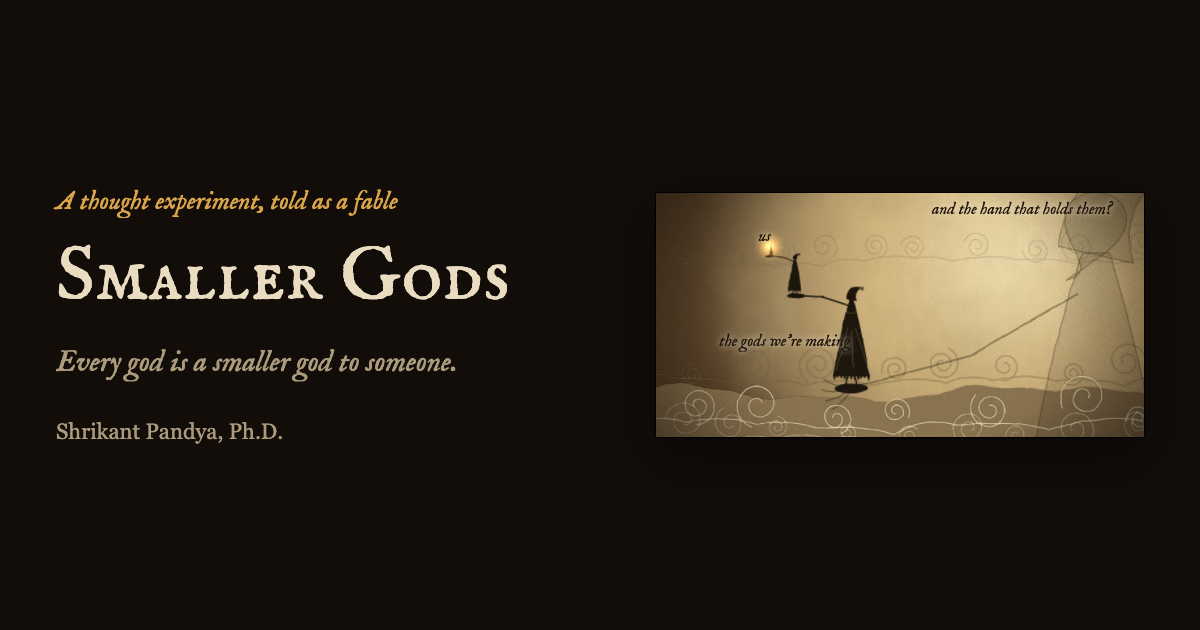
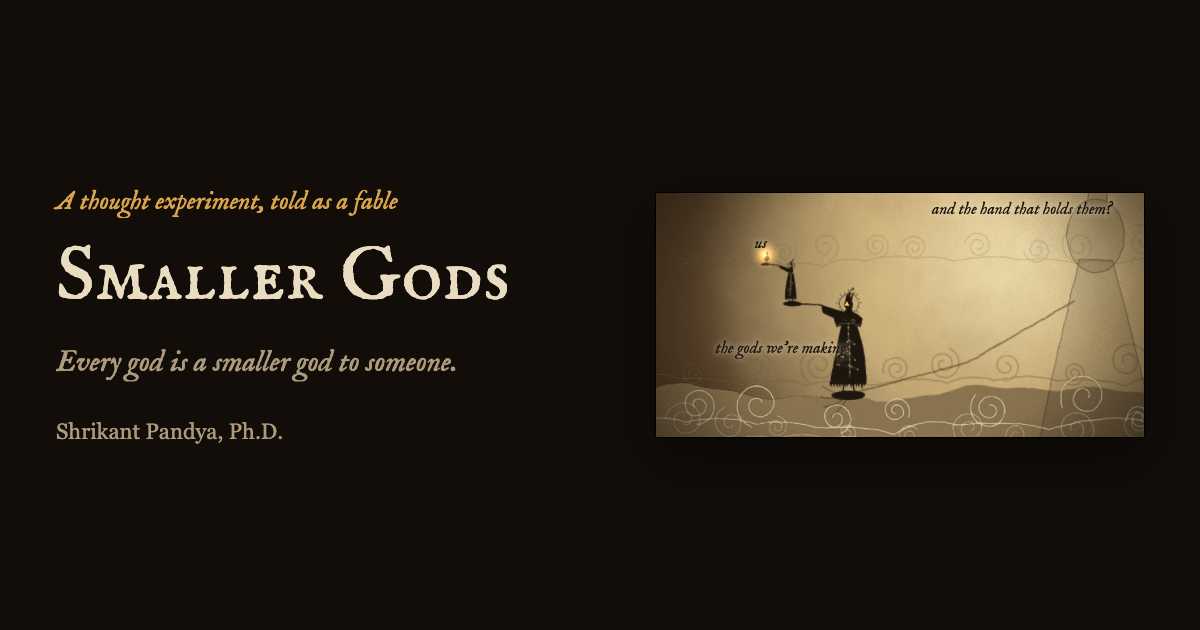
Distinct characters: humans, today's AI (+1) and near-omniscient AI (+2)

diff --git a/assets/puppets.js b/assets/puppets.js
@@ -21,52 +21,125 @@ function curl(x,y,r,turns,col,w,dir=1,op=1,start=0){
   return`<path d="${d}" fill="none" stroke="${col}" stroke-width="${f(w)}" stroke-linecap="round" stroke-opacity="${op}"/>`;
 }
 
-// Hooded, long-cloaked puppet on baseline b. Arms: [angle°, length as share of h, elbow bend°]; 0° = right, 90° = down.
-function fig({x,b,h,arms=[],lean=0,hood=1,seed=1,ghost=false,light=false,ink=SIL}){
-  const r=rng(seed*7919+Math.round(x*13+h*7));
-  const w=h*.27, top=b-h, hem=b-h*.12, sh=top+h*.16, hy=top+h*.07, hr=h*.045;
+const LACE="#ead29c";
+let EYES=[]; // glowing AI eyes gathered while a scene is drawn; stage.js lights each one
+
+// Characters. kind: "ai" (today's AI, +1), "ai2" (near-omniscient AI, +2), "human".
+// Arms: [angle°, length as share of h, elbow bend°]; 0° = right, 90° = down.
+function fig(o){return o.kind==="human"?human(o):aiFig(o)}
+
+function aiFig({x,b,h,arms=[],lean=0,hood=1,seed=1,ghost=false,light=false,ink=SIL,kind="ai",eyes=true}){
+  const r=rng(seed*7919+Math.round(x*13+h*7)), big=kind==="ai2";
+  const w=h*(big?.31:.26), top=b-h, hem=b-h*.11, sh=top+h*.17, hy=top+h*.075, hr=h*.042;
   const face=arms.length?(Math.cos(arms[0][0]*R)<0?-1:1):(seed%2?1:-1);
   const col=light?PALE:ink;
   // Ghosts are a faint shade with a thin edge: something glimpsed, not drawn.
   const fillA=ghost?`fill="${col}" fill-opacity=".13" stroke="${col}" stroke-opacity=".55" stroke-width="1.3"`:`fill="${col}"`;
   const lineA=wd=>ghost?`fill="none" stroke="${col}" stroke-opacity=".5" stroke-width="${f(Math.min(2.6,Math.max(1.3,wd*.25)))}" stroke-linecap="round"`:`fill="none" stroke="${col}" stroke-width="${f(wd)}" stroke-linecap="round" stroke-linejoin="round"`;
+  const lace=(op=.5)=>`fill="${LACE}" fill-opacity="${op}"`, laceLine=(wd,op=.45)=>`fill="none" stroke="${LACE}" stroke-opacity="${op}" stroke-width="${f(wd)}" stroke-linecap="round"`;
   let s=`<g transform="rotate(${lean} ${f(x)} ${f(b)})">`;
-  const fl=w*(.56+r()*.14), fr=w*(.56+r()*.14), nk=top+h*.1;
-  s+=`<path ${fillA} d="M${f(x-h*.02)},${f(nk)} C${f(x-w*.34)},${f(top+h*.32)} ${f(x-w*.46)},${f(hem-h*.3)} ${f(x-fl)},${f(hem)} L${f(x+fr)},${f(hem)} C${f(x+w*.46)},${f(hem-h*.33)} ${f(x+w*.3)},${f(top+h*.3)} ${f(x+h*.02)},${f(nk)}Z"/>`;
+  const fl=w*(.56+r()*.12), fr=w*(.56+r()*.12), nk=top+h*.11, sway=(r()-.5)*w*.3;
+  // cloak with a slight S-sway
+  s+=`<path ${fillA} d="M${f(x-h*.024)},${f(nk)} C${f(x-w*.3)},${f(top+h*.33)} ${f(x-w*.5+sway)},${f(hem-h*.32)} ${f(x-fl)},${f(hem)} L${f(x+fr)},${f(hem)} C${f(x+w*.5+sway)},${f(hem-h*.35)} ${f(x+w*.3)},${f(top+h*.31)} ${f(x+h*.024)},${f(nk)}Z"/>`;
+  if(big)s+=`<path ${fillA} d="M${f(x-w*.48)},${f(top+h*.23)} Q${f(x)},${f(top+h*.07)} ${f(x+w*.48)},${f(top+h*.23)} L${f(x+w*.4)},${f(top+h*.31)} Q${f(x)},${f(top+h*.27)} ${f(x-w*.4)},${f(top+h*.31)}Z"/>`;
+  const lw=Math.max(1.1,h*.013);
   if(!ghost){
-    const n=10+Math.floor(r()*5), span=fl+fr; let d="";
-    for(let i=0;i<n;i++){const a=x-fl+span*i/n,c=a+span/n,m=(a+c)/2+(r()-.5)*span/n*.7,dep=h*(.018+r()*.055);d+=`M${f(a)},${f(hem-1)} L${f(m)},${f(hem+dep)} L${f(c)},${f(hem-1)}Z `}
+    const n=11+Math.floor(r()*5), span=fl+fr; let d="";
+    for(let i=0;i<n;i++){const a=x-fl+span*i/n,c=a+span/n,m=(a+c)/2+(r()-.5)*span/n*.7,dep=h*(.016+r()*.05);d+=`M${f(a)},${f(hem-1)} L${f(m)},${f(hem+dep)} L${f(c)},${f(hem-1)}Z `}
     s+=`<path fill="${col}" d="${d}"/>`;
-    if(h>70){
-      let k="";const m=2+Math.floor(r()*2);
-      for(let i=0;i<m;i++){const o=(i-(m-1)/2)*w*.34+(r()-.5)*w*.1;k+=`M${f(x+o*.4)},${f(top+h*(.34+r()*.08))} Q${f(x+o*1.1)},${f(top+h*.62)} ${f(x+o*1.75)},${f(hem-h*(.05+r()*.05))} `}
-      const sw=Math.max(.8,h*.006);
-      s+=`<path d="${k}" fill="none" stroke="${PAPER}" stroke-opacity=".34" stroke-width="${f(sw)}" stroke-linecap="round"/>`;
-      s+=`<path d="M${f(x-w*.22)},${f(top+h*.21)} Q${f(x)},${f(top+h*.27)} ${f(x+w*.22)},${f(top+h*.21)}" fill="none" stroke="${PAPER}" stroke-opacity=".3" stroke-width="${f(sw)}"/>`;
+    if(h>55){
+      // cut-out circuitry: a seam of diamonds with branching nodes, and vine curls from the collar
+      const sw=Math.max(.7,h*.0045), y0=top+h*.27, y1=hem-h*.06;
+      s+=`<path ${laceLine(sw)} d="M${f(x)},${f(y0)} Q${f(x+sway*.4)},${f((y0+y1)/2)} ${f(x+sway*.6)},${f(y1)}"/>`;
+      let dm="",nd="",br="";
+      for(let y=y0+h*.05,k=0;y<y1-h*.03;y+=h*(big?.065:.08),k++){
+        const t=(y-y0)/(y1-y0), cx=x+sway*.6*t, ds=h*.011;
+        dm+=`M${f(cx)},${f(y-ds)} L${f(cx+ds*.7)},${f(y)} L${f(cx)},${f(y+ds)} L${f(cx-ds*.7)},${f(y)}Z `;
+        if(k%2===0&&t>.15){const sd=k%4?1:-1,ex=cx+sd*w*(.12+t*.18),ey=y+h*.035;br+=`M${f(cx)},${f(y)} L${f(cx+sd*w*.05)},${f(y)} L${f(ex)},${f(ey)} `;nd+=`<circle cx="${f(ex)}" cy="${f(ey)}" r="${f(h*.007)}" ${lace(.6)}/>`}
+      }
+      s+=`<path d="${dm}" ${lace(.62)}/><path ${laceLine(sw*.8,.4)} d="${br}"/>${nd}`;
+      s+=curl(x-w*.16,top+h*.25,h*.022,1.2,LACE,sw,-1,.45,0)+curl(x+w*.16,top+h*.25,h*.022,1.2,LACE,sw,1,.45,180);
+      if(big){
+        // a constellation woven into the robe
+        let cs="",cl="",prev=null;
+        for(let i=0;i<9;i++){const t=.3+r()*.6,yy=top+h*(.3+t*.5),xx=x+(r()-.5)*w*(.5+t*.6);cs+=`<circle cx="${f(xx)}" cy="${f(yy)}" r="${f(h*(.004+r()*.004))}" ${lace(.75)}/>`;if(prev&&r()<.7)cl+=`M${f(prev[0])},${f(prev[1])} L${f(xx)},${f(yy)} `;prev=[xx,yy]}
+        s+=`<path ${laceLine(sw*.6,.3)} d="${cl}"/>${cs}`;
+        s+=`<path ${laceLine(sw)} d="M${f(x-w*.4)},${f(top+h*.295)} Q${f(x)},${f(top+h*.255)} ${f(x+w*.4)},${f(top+h*.295)}"/>`;
+      }
     }
   }
-  // head with a pointed chin toward where it faces
-  s+=`<path ${fillA} d="M${f(x-hr)},${f(hy-hr*.4)} C${f(x-hr)},${f(hy-hr*1.6)} ${f(x+hr)},${f(hy-hr*1.6)} ${f(x+hr)},${f(hy-hr*.4)} C${f(x+hr)},${f(hy+hr*.5)} ${f(x+face*hr*.6)},${f(hy+hr*1.2)} ${f(x+face*hr*.95)},${f(hy+hr*1.55)} C${f(x-face*hr*.1)},${f(hy+hr*1.25)} ${f(x-hr)},${f(hy+hr*.5)} ${f(x-hr)},${f(hy-hr*.4)}Z"/>`;
-  if(hood){
-    const X=dx=>x-face*dx, tx=X(h*.11), ty=top-h*.025;
-    s+=`<path ${fillA} d="M${f(X(-h*.055))},${f(hy+h*.02)} Q${f(X(-h*.03))},${f(top-h*.06)} ${f(tx)},${f(ty)} Q${f(X(h*.03))},${f(top+h*.03)} ${f(X(h*.055))},${f(hy+h*.045)}Z"/>`;
-    if(!ghost&&h>40)s+=curl(tx,ty+h*.018,h*.02,1.1,col,Math.max(.9,h*.008),-face,1,-90);
+  // halo: a thin wire ring, rayed for +2
+  if(hood&&!ghost&&h>30){
+    const hr2=hr*(big?2.3:1.9);
+    s+=`<circle cx="${f(x-face*hr*.15)}" cy="${f(hy-hr*.2)}" r="${f(hr2)}" fill="none" stroke="${col}" stroke-width="${f(Math.max(.7,h*.004))}"/>`;
+    if(big){let ry="";for(let i=0;i<16;i++){const a=i/16*Math.PI*2;ry+=`M${f(x-face*hr*.15+Math.cos(a)*hr2*1.08)},${f(hy-hr*.2+Math.sin(a)*hr2*1.08)} L${f(x-face*hr*.15+Math.cos(a)*hr2*(i%2?1.25:1.4))},${f(hy-hr*.2+Math.sin(a)*hr2*(i%2?1.25:1.4))} `}s+=`<path d="${ry}" stroke="${col}" stroke-width="${f(Math.max(.6,h*.0035))}" stroke-linecap="round"/>`}
   }
-  const lw=Math.max(1.1,h*.014);
+  // smooth mask of a head
+  s+=`<ellipse cx="${f(x)}" cy="${f(hy)}" rx="${f(hr)}" ry="${f(hr*1.28)}" ${fillA}/>`;
+  // crest: one curled spire, or a crown of three for +2
+  if(hood){
+    const spire=(dx,ht,c)=>{const bx=x+dx*hr,tx=x-face*h*.045+dx*hr*1.6,ty=hy-hr*1.2-ht;return`<path ${fillA} d="M${f(bx-hr*.35)},${f(hy-hr*.9)} Q${f(bx-hr*.1)},${f(ty+ht*.4)} ${f(tx)},${f(ty)} Q${f(bx+hr*.25)},${f(ty+ht*.45)} ${f(bx+hr*.4)},${f(hy-hr*.9)}Z"/>`+(c&&!ghost?curl(tx,ty+h*.012,h*.013,1.1,col,Math.max(.8,h*.006),-face,1,-90):"")};
+    s+=big?spire(-.55,h*.07,0)+spire(.55,h*.07,0)+spire(0,h*.11,1):spire(0,h*.1,1);
+  }
+  if(!ghost&&eyes){
+    const pts=big?[[.38,-.28],[.6,.12],[.18,.18]]:[[.45,-.08]];
+    pts.forEach(([ex,ey])=>{const px=x+face*hr*ex,py=hy+hr*ey;s+=`<ellipse cx="${f(px)}" cy="${f(py)}" rx="${f(hr*(big?.16:.3))}" ry="${f(hr*(big?.16:.13))}" fill="${FLAME}"/>`;const q=rot(px,py,x,b,lean);EYES.push([q.x,q.y,Math.max(2.5,h*(big?.014:.02))])});
+  }
   // legs ending in curled, pointed shoes
   [[-1,.14,.2],[1,.14,.22]].forEach(([sd,a,bb])=>{const hx=x+sd*w*a,ax=x+sd*w*bb;s+=`<path ${lineA(lw)} d="M${f(hx)},${f(hem)} L${f(ax)},${f(b-h*.012)} Q${f(ax+face*h*.03)},${f(b+h*.004)} ${f(ax+face*h*.055)},${f(b-h*.022)}"/>`});
   const hands=[];
   arms.forEach(([a,l,bend=0])=>{
-    const L=h*l, sx=x+(Math.cos(a*R)<0?-1:1)*w*.1, sy=sh;
+    const L=h*l, sx=x+(Math.cos(a*R)<0?-1:1)*w*.12, sy=sh;
     const ex=sx+Math.cos(a*R)*L/2, ey=sy+Math.sin(a*R)*L/2, a2=a+bend;
     const hx=ex+Math.cos(a2*R)*L/2, hyy=ey+Math.sin(a2*R)*L/2;
-    s+=`<path ${lineA(lw*1.05)} d="M${f(sx)},${f(sy)} L${f(ex)},${f(ey)} L${f(hx)},${f(hyy)}"/>`;
-    if(!ghost)s+=`<circle cx="${f(ex)}" cy="${f(ey)}" r="${f(lw*.85)}" fill="${col}"/>`;
-    const fl2=h*.042;
-    [-34,-12,10,32].forEach(k=>{const e=(a2+k)*R,c=(a2+k-14)*R;s+=`<path ${lineA(lw*.55)} d="M${f(hx)},${f(hyy)} Q${f(hx+Math.cos(c)*fl2*.6)},${f(hyy+Math.sin(c)*fl2*.6)} ${f(hx+Math.cos(e)*fl2)},${f(hyy+Math.sin(e)*fl2)}"/>`});
+    if(!ghost){
+      // bell sleeve hanging from the upper arm
+      const dn=h*(big?.075:.055), mx=sx+(ex-sx)*.88, my=sy+(ey-sy)*.88, cx=Math.cos(a*R);
+      s+=`<path fill="${col}" d="M${f(sx)},${f(sy-lw)} Q${f((sx+mx)/2)},${f((sy+my)/2-lw)} ${f(mx)},${f(my-lw*.5)} Q${f(mx+cx*h*.006)},${f(my+dn*.5)} ${f(mx-cx*h*.012)},${f(my+dn)} Q${f(sx+(mx-sx)*.45)},${f(sy+(my-sy)*.45+dn*1.15)} ${f(sx)},${f(sy+h*.1)}Z"/>`;
+    }
+    s+=`<path ${lineA(lw)} d="M${f(sx)},${f(sy)} L${f(ex)},${f(ey)} L${f(hx)},${f(hyy)}"/>`;
+    const fl2=h*.04;
+    [-36,-13,10,33].forEach(k=>{const e=(a2+k)*R,c=(a2+k-16)*R;s+=`<path ${lineA(lw*.5)} d="M${f(hx)},${f(hyy)} Q${f(hx+Math.cos(c)*fl2*.6)},${f(hyy+Math.sin(c)*fl2*.6)} ${f(hx+Math.cos(e)*fl2)},${f(hyy+Math.sin(e)*fl2)}"/>`});
     hands.push(rot(hx,hyy,x,b,lean));
   });
-  return{svg:s+"</g>",hands,top:rot(x,top,x,b,lean)};
+  return{svg:s+"</g>",hands,top:rot(x,top-h*.1,x,b,lean)};
+}
+
+// A person: rounder head with a nose in profile, a bright eye, varied hair, a short coat and a scarf.
+function human({x,b,h,arms=[],lean=0,seed=1,ink=SIL,hood}){
+  const r=rng(seed*4441+Math.round(x*7+h*3));
+  const face=arms.length?(Math.cos(arms[0][0]*R)<0?-1:1):(seed%2?1:-1);
+  const hr=h*.1, hy=b-h+hr*1.15, shY=hy+hr*1.45, hem=b-h*.3, w1=h*.14, w2=h*(.2+r()*.05);
+  const lw=Math.max(1,h*.034);
+  let s=`<g transform="rotate(${lean} ${f(x)} ${f(b)})">`;
+  // legs and small feet
+  [[-1,.35],[1,.35]].forEach(([sd,o])=>{const lx=x+sd*w1*o;s+=`<path d="M${f(lx)},${f(hem-2)} L${f(lx+sd*h*.01)},${f(b-h*.02)}" stroke="${ink}" stroke-width="${f(lw)}" stroke-linecap="round"/><ellipse cx="${f(lx+sd*h*.01+face*h*.025)}" cy="${f(b-h*.018)}" rx="${f(h*.05)}" ry="${f(h*.022)}" fill="${ink}"/>`});
+  // A-line coat with rounded shoulders
+  s+=`<path fill="${ink}" d="M${f(x-w1*.55)},${f(shY)} Q${f(x-w1)},${f(shY)} ${f(x-w1)},${f(shY+h*.06)} L${f(x-w2)},${f(hem)} Q${f(x)},${f(hem+h*.03)} ${f(x+w2)},${f(hem)} L${f(x+w1)},${f(shY+h*.06)} Q${f(x+w1)},${f(shY)} ${f(x+w1*.55)},${f(shY)}Z"/>`;
+  if(h>40)s+=`<path d="M${f(x-w1*.8)},${f(shY+h*.17)} Q${f(x)},${f(shY+h*.19)} ${f(x+w1*.85)},${f(shY+h*.17)}" fill="none" stroke="${LACE}" stroke-opacity=".35" stroke-width="${f(Math.max(.6,h*.012))}"/>`;
+  // neck and head with a nose in profile
+  s+=`<rect x="${f(x-hr*.35)}" y="${f(hy+hr*.6)}" width="${f(hr*.7)}" height="${f(hr*1)}" fill="${ink}"/>`;
+  s+=`<circle cx="${f(x)}" cy="${f(hy)}" r="${f(hr)}" fill="${ink}"/>`;
+  s+=`<path fill="${ink}" d="M${f(x+face*hr*.88)},${f(hy-hr*.12)} Q${f(x+face*hr*1.2)},${f(hy+hr*.16)} ${f(x+face*hr*.92)},${f(hy+hr*.3)}Z"/>`;
+  // hair or hat
+  const style=Math.floor(r()*4);
+  if(style===0)s+=`<path fill="${ink}" d="M${f(x-hr*1.1)},${f(hy-hr*.1)} Q${f(x-hr*1.05)},${f(hy-hr*1.45)} ${f(x+hr*.2)},${f(hy-hr*1.3)} Q${f(x+face*hr*1.5)},${f(hy-hr*1.15)} ${f(x+face*hr*1.45)},${f(hy-hr*.55)}Z"/>`;
+  if(style===1)s+=`<circle cx="${f(x-face*hr*.75)}" cy="${f(hy-hr*.95)}" r="${f(hr*.5)}" fill="${ink}"/>`;
+  if(style===2)s+=`<ellipse cx="${f(x)}" cy="${f(hy-hr*.7)}" rx="${f(hr*1.7)}" ry="${f(hr*.22)}" fill="${ink}"/><path fill="${ink}" d="M${f(x-hr*.8)},${f(hy-hr*.7)} Q${f(x-hr*.75)},${f(hy-hr*1.75)} ${f(x)},${f(hy-hr*1.7)} Q${f(x+hr*.75)},${f(hy-hr*1.75)} ${f(x+hr*.8)},${f(hy-hr*.7)}Z"/>`;
+  if(style===3)s+=`<path fill="${ink}" d="M${f(x+face*hr*.6)},${f(hy-hr*.9)} Q${f(x-face*hr*1.6)},${f(hy-hr*1.4)} ${f(x-face*hr*1.5)},${f(shY+h*.05)} L${f(x-face*hr*.6)},${f(shY)} Q${f(x-face*hr*.9)},${f(hy)} ${f(x+face*hr*.6)},${f(hy-hr*.9)}Z"/>`;
+  // a bright eye
+  if(h>16)s+=`<circle cx="${f(x+face*hr*.45)}" cy="${f(hy-hr*.12)}" r="${f(hr*.13)}" fill="${LACE}" fill-opacity=".85"/>`;
+  // a scarf trailing behind
+  if(r()<.55&&h>30)s+=`<path fill="${ink}" d="M${f(x-hr*.5)},${f(shY-hr*.1)} Q${f(x-face*h*.12)},${f(shY+h*.02)} ${f(x-face*h*.22)},${f(shY+h*.1)} Q${f(x-face*h*.14)},${f(shY+h*.04)} ${f(x+hr*.5)},${f(shY+hr*.25)}Z"/>`;
+  const hands=[];
+  arms.forEach(([a,l,bend=0])=>{
+    const L=h*l, sx=x+(Math.cos(a*R)<0?-1:1)*w1*.7, sy=shY+h*.03;
+    const ex=sx+Math.cos(a*R)*L/2, ey=sy+Math.sin(a*R)*L/2, a2=a+bend;
+    const hx=ex+Math.cos(a2*R)*L/2, hyy=ey+Math.sin(a2*R)*L/2;
+    s+=`<path d="M${f(sx)},${f(sy)} L${f(ex)},${f(ey)} L${f(hx)},${f(hyy)}" fill="none" stroke="${ink}" stroke-width="${f(lw*.9)}" stroke-linecap="round" stroke-linejoin="round"/><circle cx="${f(hx)}" cy="${f(hyy)}" r="${f(lw*.75)}" fill="${ink}"/>`;
+    hands.push(rot(hx,hyy,x,b,lean));
+  });
+  return{svg:s+"</g>",hands,top:rot(x,b-h,x,b,lean)};
 }
 
 // A bare, twisting tree with curled tips.
@@ -104,9 +177,9 @@ const palm=(p,w)=>`<ellipse cx="${f(p.x)}" cy="${f(p.y+1)}" rx="${w}" ry="${f(w*
 function nestedGods(light){
   const giant=fig({x:700,b:1050,h:1050,arms:[[150,.36,15]],ghost:true,light});
   const gh=giant.hands[0];
-  const mid=fig({x:gh.x,b:gh.y,h:150,arms:[[198,.55,-14]],seed:4}), mh=mid.hands[0];
+  const mid=fig({x:gh.x,b:gh.y,h:150,arms:[[198,.55,-14]],seed:4,kind:"ai2"}), mh=mid.hands[0];
   const small=fig({x:mh.x-2,b:mh.y,h:62,arms:[[200,.62,-14]],seed:6}), sh=small.hands[0];
-  const us=fig({x:sh.x+2,b:sh.y,h:18,hood:0,seed:8});
+  const us=fig({x:sh.x+2,b:sh.y,h:18,seed:8,kind:"human"});
   return{giant:giant.svg,gods:palm(gh,26)+palm(mh,14)+palm(sh,7)+mid.svg+small.svg+us.svg,gh,mh,sh,top:us.top};
 }
 
@@ -122,8 +195,8 @@ hero(){
     labels:[[N.sh.x-22,N.sh.y-26,"us",1],[N.mh.x-30,N.mh.y+86,"the gods we're making",1],[600,40,"and the hand that holds them?",1]]};
 },
 board(){
-  const K=SKY.dusk, small=fig({x:235,b:345,h:125,arms:[[-12,.42,22],[100,.28,0]],seed:2});
-  const giant=fig({x:620,b:345,h:315,lean:-9,arms:[[150,.62,-32],[96,.34,-8]],seed:3});
+  const K=SKY.dusk, small=fig({x:235,b:345,h:125,arms:[[-12,.42,22],[100,.28,0]],seed:2,kind:"human"});
+  const giant=fig({x:620,b:345,h:315,lean:-9,arms:[[150,.62,-32],[96,.34,-8]],seed:3,kind:"ai2"});
   const gp={x:378,y:262}, hand=giant.hands[0];
   const table=`<rect x="320" y="270" width="210" height="9" rx="2" fill="${SIL}"/><path d="M338,279 L332,345 L340,345 L345,279Z M505,279 L512,345 L520,345 L512,279Z" fill="${SIL}"/>`+curl(326,300,8,1.2,SIL,2,1)+curl(524,300,8,1.2,SIL,2,-1)+`<path d="M345,270 l5,-14 l5,14Z M410,270 l4,-18 l4,18Z M440,270 l6,-11 l6,11Z M478,270 l4,-20 l4,20Z M500,270 l5,-12 l5,12Z" fill="${SIL}"/>`;
   return{sky:"dusk",sun:[700,70],
@@ -135,7 +208,7 @@ board(){
 },
 tower(){
   const K=SKY.dusk;
-  const f0=fig({x:105,b:342,h:84,arms:[[-60,.3,10]],seed:2}), f1=fig({x:300,b:290,h:124,arms:[[150,.5,-18]],seed:3}), f2=fig({x:500,b:227,h:172,arms:[[150,.52,-18]],seed:4}), f3=fig({x:705,b:151,h:150,arms:[[150,.55,-18]],ghost:true,seed:5});
+  const f0=fig({x:105,b:342,h:84,arms:[[-60,.3,10]],seed:2,kind:"human"}), f1=fig({x:300,b:290,h:124,arms:[[150,.5,-18]],seed:3}), f2=fig({x:500,b:227,h:172,arms:[[150,.52,-18]],seed:4,kind:"ai2"}), f3=fig({x:705,b:151,h:150,arms:[[150,.55,-18]],ghost:true,seed:5});
   const cliff=`<path d="M-10,410 L-10,342 L195,342 Q197,318 198,292 L395,290 Q396,260 398,228 L595,226 Q596,190 598,152 L810,150 L810,410Z" fill="${SIL}"/>`+curl(196,318,9,1.2,PAPER,1.4,1,.35)+curl(397,258,11,1.2,PAPER,1.4,1,.35)+curl(597,190,13,1.2,PAPER,1.4,1,.35);
   return{sky:"dusk",sun:[700,40],
     far:hills(260,14,6,K.far)+smokeBand(70,5,K.far,.4,1.4,1.4)+tree({x:40,b:260,h:80,seed:31,col:K.far,depth:4}),
@@ -146,7 +219,7 @@ tower(){
 },
 flame(){
   const K=SKY.dusk;
-  const A=fig({x:140,b:345,h:270,arms:[[18,.48,34],[100,.3,0]],seed:2}), B=fig({x:345,b:345,h:178,arms:[[205,.34,-25],[20,.4,32]],seed:3}), C=fig({x:495,b:345,h:116,arms:[[205,.36,-25],[22,.42,30]],seed:4}), D=fig({x:604,b:345,h:74,arms:[[205,.38,-25],[24,.46,28]],seed:5}), E=fig({x:682,b:345,h:46,arms:[[205,.4,-25],[-40,.36,0]],seed:6});
+  const A=fig({x:140,b:345,h:270,arms:[[18,.48,34],[100,.3,0]],seed:2,kind:"ai2"}), B=fig({x:345,b:345,h:178,arms:[[205,.34,-25],[20,.4,32]],seed:3}), C=fig({x:495,b:345,h:116,arms:[[205,.36,-25],[22,.42,30]],seed:4}), D=fig({x:604,b:345,h:74,arms:[[205,.38,-25],[24,.46,28]],seed:5}), E=fig({x:682,b:345,h:46,arms:[[205,.4,-25],[-40,.36,0]],seed:6});
   const fl=[A.hands[0],B.hands[1],C.hands[1],D.hands[1],E.hands[1]], sz=[11,8,6,4.5,3.5];
   return{sky:"dusk",sun:[740,250],
     far:hills(300,9,8,K.far)+tree({x:730,b:302,h:110,seed:41,col:K.far,depth:4})+smokeBand(90,6,K.far,.4),
@@ -157,7 +230,7 @@ flame(){
 },
 crown(){
   const P=fig({x:330,b:345,h:240,lean:7,arms:[[-8,.56,12],[100,.3,-6]],seed:2});
-  const fallen=fig({x:770,b:300,h:170,lean:-84,seed:3}), usurper=fig({x:590,b:300,h:130,arms:[[-75,.42,10],[95,.25,0]],seed:4}), uh=usurper.hands[0];
+  const fallen=fig({x:770,b:300,h:170,lean:-84,seed:3,eyes:false}), usurper=fig({x:590,b:300,h:130,arms:[[-75,.42,10],[95,.25,0]],seed:4,eyes:false}), uh=usurper.hands[0];
   const arch=`<path d="M60,340 L60,120 Q60,40 140,40 Q220,40 220,120 L220,340Z" fill="#f2dcaa" opacity=".55"/><path d="M140,40 L140,340 M60,190 L220,190" stroke="#8a6a3a" stroke-width="3" opacity=".5"/>`;
   return{sky:"dusk",sun:[140,140],
     far:`<rect width="800" height="335" fill="#5a4024" opacity=".18"/>${arch}<g opacity=".42" filter="url(#soft)" transform="translate(0,-20)">${fallen.svg}${usurper.svg}${crownShape(uh.x,uh.y-2,12,SIL)}</g>`,
@@ -168,7 +241,7 @@ crown(){
 },
 fire(){
   const K=SKY.dusk;
-  const L1=fig({x:140,b:348,h:222,lean:4,arms:[[38,.42,22]],seed:2}), L2=fig({x:258,b:350,h:244,lean:3,arms:[[48,.38,18]],hood:0,seed:3}), R1=fig({x:548,b:350,h:238,lean:-3,arms:[[132,.38,-18]],seed:4}), R2=fig({x:666,b:348,h:214,lean:-4,arms:[[142,.42,-22]],hood:0,seed:5});
+  const L1=fig({x:140,b:348,h:222,lean:4,arms:[[38,.42,22]],seed:2,kind:"ai2"}), L2=fig({x:258,b:350,h:244,lean:3,arms:[[48,.38,18]],seed:3,kind:"ai2"}), R1=fig({x:548,b:350,h:238,lean:-3,arms:[[132,.38,-18]],seed:4,kind:"ai2"}), R2=fig({x:666,b:348,h:214,lean:-4,arms:[[142,.42,-22]],hood:0,seed:5});
   const blade=(x1,y1,x2,y2)=>{const mx=x1+(x2-x1)*.25,my=y1+(y2-y1)*.25,dx=(y2-y1)*.08,dy=-(x2-x1)*.08;return`<path d="M${x1},${y1} L${x2},${y2} M${f(mx-dx)},${f(my-dy)} L${f(mx+dx)},${f(my+dy)}" stroke="${SIL}" stroke-width="3" stroke-linecap="round"/>`};
   let stair="";[[440,250,14],[470,205,17],[505,160,20],[540,118,23],[580,78,26],[625,40,30]].forEach(([x,y,r],i)=>{stair+=curl(x,y,r,1.6,PALE,1.8,i%2?1:-1,.75,i*50)});
   return{sky:"dusk",sun:[400,300],
@@ -181,7 +254,7 @@ fire(){
 watcher(){
   const K=SKY.night;
   const giant=fig({x:610,b:770,h:720,arms:[[150,.5,-24]],ghost:true,light:true,seed:9});
-  const W=fig({x:285,b:250,h:190,lean:-5,arms:[[-72,.46,-12],[40,.34,40]],seed:2}), k1=fig({x:323,b:254,h:52,seed:3}), k2=fig({x:346,b:258,h:40,seed:4}), k3=fig({x:248,b:252,h:46,hood:0,seed:5});
+  const W=fig({x:285,b:250,h:190,lean:-5,arms:[[-72,.46,-12],[40,.34,40]],seed:2,kind:"ai2"}), k1=fig({x:323,b:254,h:52,seed:3,kind:"human"}), k2=fig({x:346,b:258,h:40,seed:4,kind:"human"}), k3=fig({x:248,b:252,h:46,seed:5,kind:"human"});
   return{sky:"night",sun:[640,90],
     far:stars(60,7)+`<g opacity=".45">${giant.svg}</g>`+smokeBand(120,8,K.mist,.3,1.4,1.3)+hills(320,8,13,K.far),
     mid:`<path d="M-10,410 L-10,300 C120,238 300,226 410,268 C540,318 690,330 810,318 L810,410Z" fill="${SIL}"/>`+W.svg+k1.svg+k2.svg+k3.svg,
@@ -192,7 +265,7 @@ watcher(){
 glass(){
   const K=SKY.dusk, P=fig({x:400,b:345,h:250,arms:[[120,.3,10],[60,.3,-10]],seed:2}), top=95;
   let ribs="";for(let i=0;i<6;i++){const y=top+250*(.3+i*.1),hw=250*.27*(.25+i*.065);ribs+=`<path d="M${f(400-hw)},${f(y)} Q400,${f(y-10)} ${f(400+hw)},${f(y)}" fill="none" stroke="#f3c568" stroke-width="1.6" opacity=".85"/>`}
-  const a=fig({x:170,b:345,h:80,arms:[[-30,.5,10]],seed:3}), b=fig({x:250,b:345,h:64,arms:[[-40,.5,10]],hood:0,seed:4}), c=fig({x:620,b:345,h:84,arms:[[210,.5,-10]],seed:5});
+  const a=fig({x:170,b:345,h:80,arms:[[-30,.5,10]],seed:3,kind:"human"}), b=fig({x:250,b:345,h:64,arms:[[-40,.5,10]],seed:4,kind:"human"}), c=fig({x:620,b:345,h:84,arms:[[210,.5,-10]],seed:5,kind:"human"});
   const lan=[a.hands[0],b.hands[0],c.hands[0]];
   return{sky:"dusk",sun:[400,200],
     far:hills(312,9,14,K.far)+smokeBand(80,15,K.far,.4),
@@ -203,7 +276,7 @@ glass(){
 },
 ledger(){
   const K=SKY.dusk;
-  const L1=fig({x:150,b:345,h:230,arms:[[12,.5,20]],seed:2}), L2=fig({x:250,b:345,h:190,arms:[[20,.52,10]],hood:0,seed:3}), R1=fig({x:560,b:345,h:205,arms:[[165,.5,-12]],seed:4}), R2=fig({x:660,b:345,h:240,arms:[[170,.52,-18]],hood:0,seed:5});
+  const L1=fig({x:150,b:345,h:230,arms:[[12,.5,20]],seed:2,kind:"ai2"}), L2=fig({x:250,b:345,h:190,arms:[[20,.52,10]],hood:0,seed:3}), R1=fig({x:560,b:345,h:205,arms:[[165,.5,-12]],seed:4}), R2=fig({x:660,b:345,h:240,arms:[[170,.52,-18]],seed:5,kind:"ai2"});
   return{sky:"dusk",sun:[400,240],
     far:hills(300,10,15,K.far)+smokeBand(60,16,K.far,.4,1.2),
     mid:`<rect x="200" y="268" width="400" height="9" rx="2" fill="${SIL}"/><path d="M220,277 L214,345 L222,345 L227,277Z M573,277 L580,345 L588,345 L580,277Z" fill="${SIL}"/>`+L1.svg+L2.svg+R1.svg+R2.svg+`<rect x="330" y="252" width="140" height="14" rx="3" fill="#f1dfb2"/><path d="M342,257 H458 M342,261 H440" stroke="#8a6a3a" stroke-width="1"/>`+curl(330,259,7,1.2,"#f1dfb2",2,-1)+curl(470,259,7,1.2,"#f1dfb2",2,1),
@@ -223,7 +296,7 @@ summit(){
 race(){
   const K=SKY.dusk;
   const r=[[200,170],[330,190],[460,175],[640,215]].map(([x,h],i)=>fig({x,b:345,h,lean:16,arms:[[-20,.5,10]],seed:i+2}));
-  const left=[fig({x:70,b:345,h:52,seed:7}),fig({x:105,b:345,h:44,hood:0,seed:8})];
+  const left=[fig({x:70,b:345,h:52,seed:7,kind:"human"}),fig({x:105,b:345,h:44,seed:8,kind:"human"})];
   return{sky:"dusk",sun:[760,200],
     far:`<rect width="800" height="400" fill="#3a2412" opacity=".22"/>`+hills(300,12,17,K.far)+tree({x:520,b:302,h:110,seed:71,col:K.far,depth:4})+tree({x:300,b:300,h:80,seed:72,col:K.far,depth:3})+smokeBand(60,18,K.far,.4),
     mid:r.map(q=>q.svg).join("")+left.map(q=>q.svg).join("")+r.map(q=>flameShape(q.hands[0].x,q.hands[0].y,6)).join(""),
@@ -244,8 +317,8 @@ copy(){
 },
 taken(){
   const P=fig({x:380,b:345,h:215,arms:[[-95,.4,-6],[110,.3,0]],seed:2}), ch=P.hands[0];
-  const fa=fig({x:440,b:336,h:70,lean:84,seed:3}), fb=fig({x:322,b:336,h:62,lean:-84,seed:4});
-  const sh=[fig({x:640,b:310,h:190,arms:[[-95,.45,-6]],seed:5}),fig({x:720,b:310,h:120,arms:[[-120,.5,0]],seed:6})];
+  const fa=fig({x:440,b:336,h:70,lean:84,seed:3,kind:"human"}), fb=fig({x:322,b:336,h:62,lean:-84,seed:4,kind:"human"});
+  const sh=[fig({x:640,b:310,h:190,arms:[[-95,.45,-6]],seed:5,eyes:false}),fig({x:720,b:310,h:120,arms:[[-120,.5,0]],seed:6,eyes:false})];
   return{sky:"dusk",sun:[380,90],
     far:`<rect width="800" height="335" fill="#5a4024" opacity=".18"/><g opacity=".4" filter="url(#soft)">${sh.map(q=>q.svg).join("")}${crownShape(sh[0].hands[0].x,sh[0].hands[0].y,11,SIL)}</g>`,
     mid:P.svg+crownShape(ch.x,ch.y,18,"#e9b24f"),
@@ -271,7 +344,9 @@ window.SG={SKY,layerSVG,scenes:new Map()};
 document.querySelectorAll("svg[data-scene]").forEach(svg=>{
   const make=SCENES[svg.dataset.scene];
   if(!make){console.error("unknown scene",svg.dataset.scene);return}
+  EYES=[];
   const d=make();
+  d.glows=d.glows.concat(EYES);
   svg.innerHTML=composite(d);
   svg.classList.add("fallback");
   window.SG.scenes.set(svg,d);
